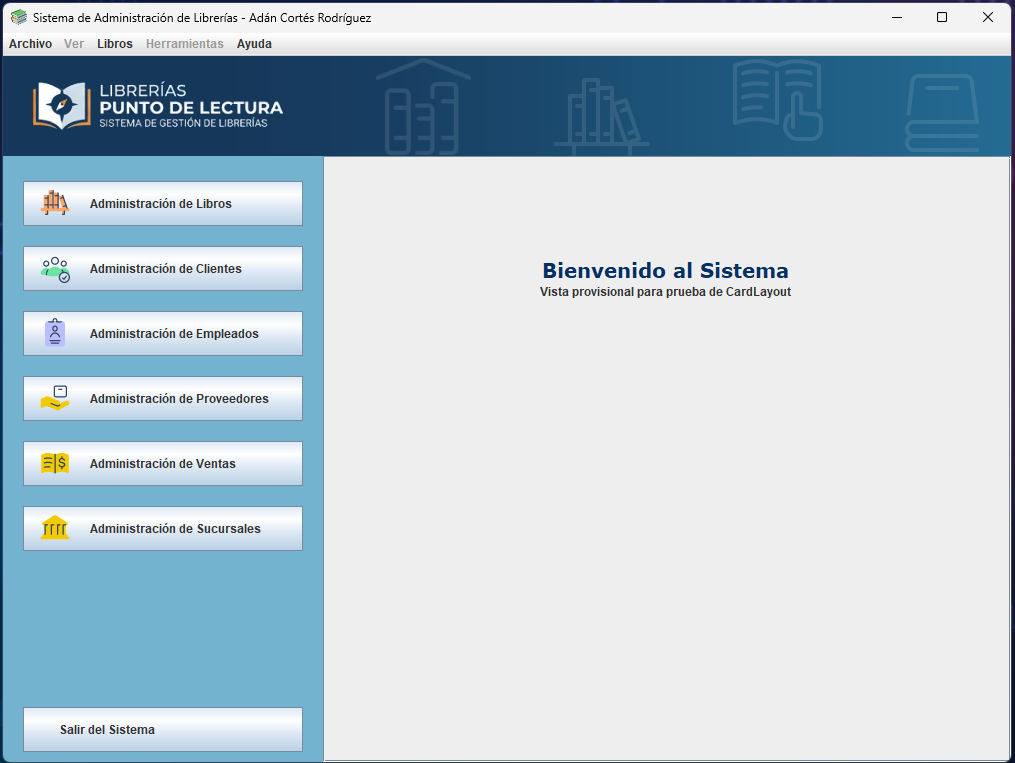
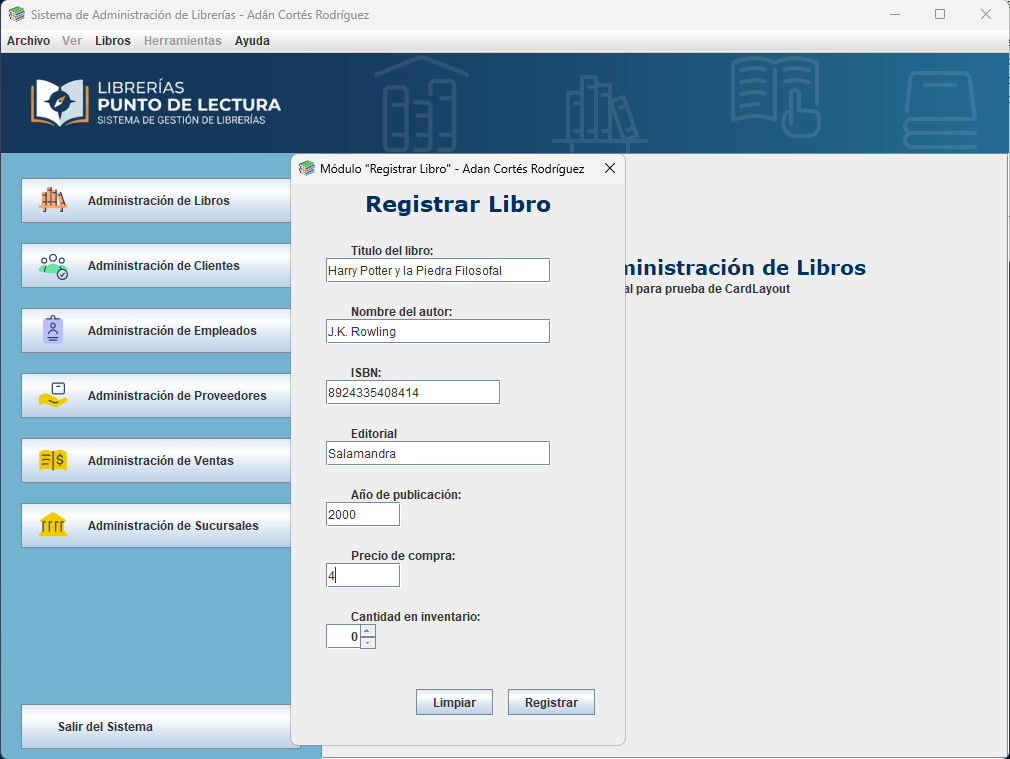
docs: :memo: Actualizacion del README

Changed region(s): [[0.0, 0.0, 1.0, 1.0], [0.399, 0.9091, 0.5832, 0.9394]]

diff --git a/README.md b/README.md
@@ -32,8 +32,9 @@ Este espacio funciona como un **Monorepositorio**, donde cada actividad se organ
 | ------ | ------------------------ | ---------------------------------------- | ------------------------------------------------------------ | ----------- |
 | 1      | Actividad 2              | Componentes y estructuras de los eventos | Aplicación gráfica que integra componentes esenciales de Java swing y manejo de eventos. "Simula el registro como aspirante a beca" | ✅Finalizado |
 | 1      | Evidencia de aprendizaje | Importancia de los eventos en Java       | Aplicación gráfica que implementa un módulo de registro para nuevos socios dentro de un sistema de gestión de gimnasios. En esta actividad se implementan algunos componentes básicos de java swing y manejo de eventos. | ✅Finalizado |
-| 2      | Actividad 2              | Contenedores, controladores y clases JFC | Aplicación de gráfica que implementa un módulo para el registro de nuevos cursos dentro de una aplicación de escritorio de un sistema de gestión de centro comunitario. En esta actividad se utilizan diversos componentes Java swing, administradores de diseño y manejo de eventos. | ✅Finalizado |
+| 2      | Actividad 2              | Contenedores, controladores y clases JFC | Aplicación gráfica que implementa un módulo para el registro de nuevos cursos dentro de una aplicación de escritorio de un sistema de gestión de centro comunitario. En esta actividad se utilizan diversos componentes Java swing, administradores de diseño y manejo de eventos. | ✅Finalizado |
 | 2      | Actividad 3              | Ventanas y menús                         | Aplicación gráfica en la cual se implementa una barra de menú clásica en la parte superior y dos ventanas modales encima de la ventana principal. la aplicación simula un sistema para la administración de librerías. | ✅Finalizado |
+| 2      | Evidencia de aprendizaje | Programa con componentes gráficos        | Aplicación de un sistema integral para que administración de veterinarias en la cual, se integran todos los aprendizajes obtenidos durante la unidad 2 acerca de componentes swing, contenedores y ventanas, administradores de diseño, separación de responsabilidades y convenciones java. | ✅Finalizado |
 
 ## 🖥Capturas de pantalla de las aplicaciones
 
@@ -41,4 +42,5 @@ Este espacio funciona como un **Monorepositorio**, donde cada actividad se organ
 ![Captura de pantalla aplicación 2](resources/U1_EA_screenshot(1).png)
 ![Captura de pantalla aplicación 3](resources/U2_A2_screenshot(1).png)
 ![Captura de pantalla aplicación 4](resources/U2_A3_screenshot(1).png)
-
+![Captura de pantalla aplicación 5](resources/U2_EA_screenshot(1).png)
+![Captura de pantalla aplicación 5](resources/U2_EA_screenshot(2).png)
